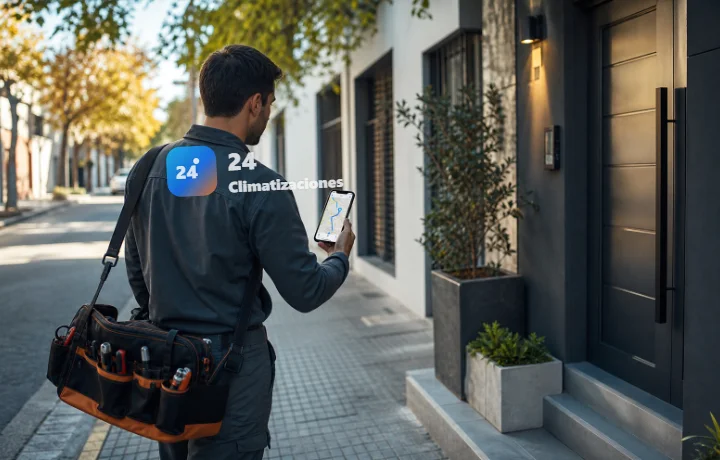
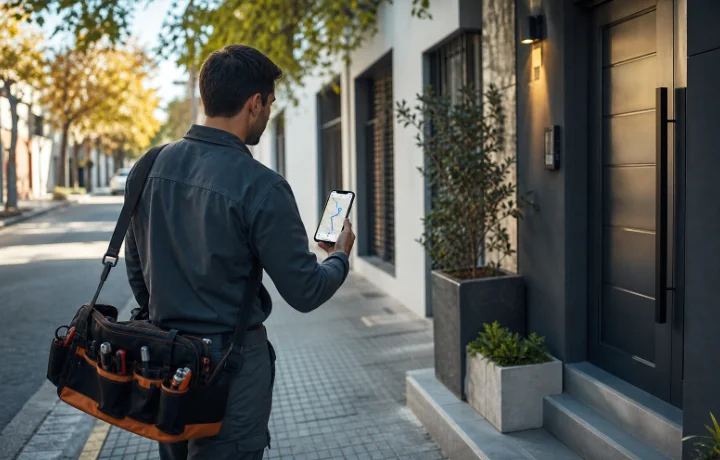
fix: clean realistic carousel images

Changed region(s): [[0.2139, 0.3043, 0.4889, 0.4261]]

diff --git a/index.html b/index.html
@@ -372,7 +372,6 @@
     .proof-visual{height:224px;border-radius:26px;background:linear-gradient(135deg,#071226 0%,#0d2145 58%,#173257 100%);border:1px solid rgba(7,18,38,.12);display:grid;place-items:center;overflow:hidden;box-shadow:inset 0 1px 0 rgba(255,255,255,.13),0 24px 54px -44px rgba(7,18,38,.85);position:relative;color:#fff}
     .proof-visual::before{content:"";position:absolute;inset:0;background:linear-gradient(90deg,rgba(255,255,255,.07) 1px,transparent 1px),linear-gradient(0deg,rgba(255,255,255,.055) 1px,transparent 1px);background-size:32px 32px;opacity:.38;pointer-events:none}
     .proof-visual::after{content:"";position:absolute;left:18px;right:18px;bottom:15px;height:1px;background:linear-gradient(90deg,transparent,rgba(255,255,255,.35),transparent);pointer-events:none}
-    .proof-time::after{left:52.4%;right:auto;top:58.4%;bottom:auto;width:19%;height:auto;aspect-ratio:1;background:transparent;border:2px solid rgba(255,122,26,.58);border-radius:50%;transform:translate(-50%,-50%) scale(.92);opacity:.72;z-index:2;box-shadow:0 0 0 4px rgba(255,189,89,.14),0 0 28px rgba(255,122,26,.18)}
     .proof-visual svg{width:100%;height:100%;display:block;position:relative;z-index:1}
     .proof-media{position:absolute;inset:0;width:100%;height:100%;object-fit:cover;display:block;z-index:1}
     .proof-media+svg{display:none}
@@ -390,14 +389,12 @@
     body.motion-ready .photo-fly{animation:photoFly 2.8s ease-in-out infinite}
     body.motion-ready .chat-pop{animation:chatPop 2.5s ease-in-out infinite}
     body.motion-ready .proof-media{animation:proofMediaFloat 5.4s ease-in-out infinite}
-    body.motion-ready .proof-time::after{animation:clockPhotoPulse 2.4s ease-in-out infinite}
     @keyframes tickSpin{to{transform:rotate(360deg)}}
     @keyframes proofPulse{0%,100%{opacity:.12}50%{opacity:.32}}
     @keyframes routeMove{to{stroke-dashoffset:-34}}
     @keyframes photoFly{0%,100%{transform:translate(0,0)}50%{transform:translate(18px,-10px)}}
     @keyframes chatPop{0%,100%{transform:translateY(0)}50%{transform:translateY(-7px)}}
     @keyframes proofMediaFloat{0%,100%{transform:scale(1)}50%{transform:scale(1.025)}}
-    @keyframes clockPhotoPulse{0%,100%{transform:translate(-50%,-50%) scale(.86);opacity:.42}50%{transform:translate(-50%,-50%) scale(1.05);opacity:.85}}
     @keyframes iconTapBoost{0%{transform:scale(1) rotate(0)}42%{transform:scale(1.14) rotate(-7deg)}78%{transform:scale(.98) rotate(2deg)}100%{transform:scale(1) rotate(0)}}
     .logo,.wa-mini svg,.btn svg,.choice-icon,.micro-icon,.badge-icon,.proof-arrow svg,.photo-icon,.location-step i,.social-mark,.google-mark{transition:transform .18s ease}
     .wa-mini:active svg,.btn:active svg,.choice:active .choice-icon,.micro:active .micro-icon,.badge:active .badge-icon,.proof-arrow:active svg,.photo-item button:active .photo-icon,.location-step:active i,.social-link:active .social-mark,.google-review-link:active .google-mark{transform:scale(1.08) rotate(-6deg)}

diff --git a/service-worker.js b/service-worker.js
@@ -1,4 +1,4 @@
-const CACHE = '24-climatizaciones-v30';
+const CACHE = '24-climatizaciones-v31';
 const ASSETS = [
   './',
   './index.html',